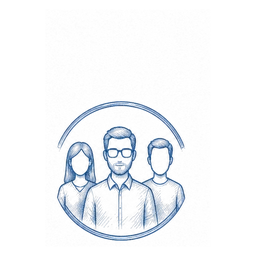
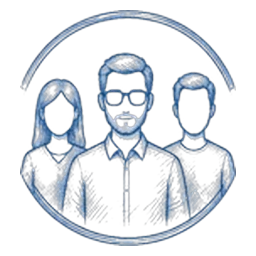
Add files via upload

Changed region(s): [[0.0625, 0.1875, 0.9375, 0.9688], [0.0625, 0.0312, 0.9375, 0.375]]

diff --git a/src/components/FindAccordion.tsx b/src/components/FindAccordion.tsx
@@ -86,7 +86,7 @@ export function FindAccordion({
                   href={action.href}
                   tabIndex={open ? undefined : -1}
                   aria-hidden={open ? undefined : true}
-                  className="press-btn relative flex min-h-[9.5rem] flex-col items-center justify-center rounded-2xl px-4 py-4 text-center"
+                  className="press-btn relative flex min-h-[9.5rem] flex-col items-center justify-center rounded-2xl px-4 py-4 pl-20 text-center sm:pl-4 sm:pt-20"
                   style={{
                     background: tone.bg,
                     ["--press-bg" as string]: tone.press,
@@ -96,11 +96,11 @@ export function FindAccordion({
                     src={`/images/find/${tone.icon}.webp`}
                     alt=""
                     aria-hidden="true"
-                    width={80}
-                    height={80}
+                    width={64}
+                    height={64}
                     loading="lazy"
                     decoding="async"
-                    className="absolute left-3 top-3 block"
+                    className="absolute left-4 top-4 block"
                   />
                   <span
                     className="text-[1.05rem] font-bold"